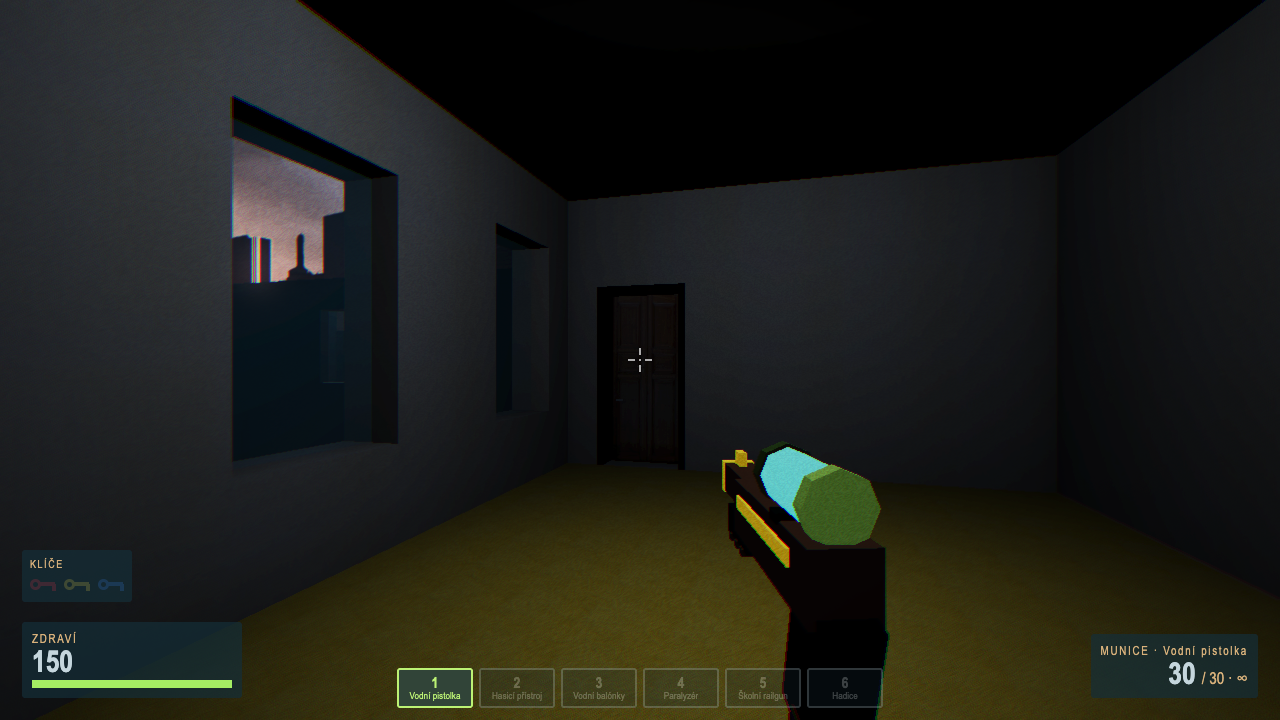
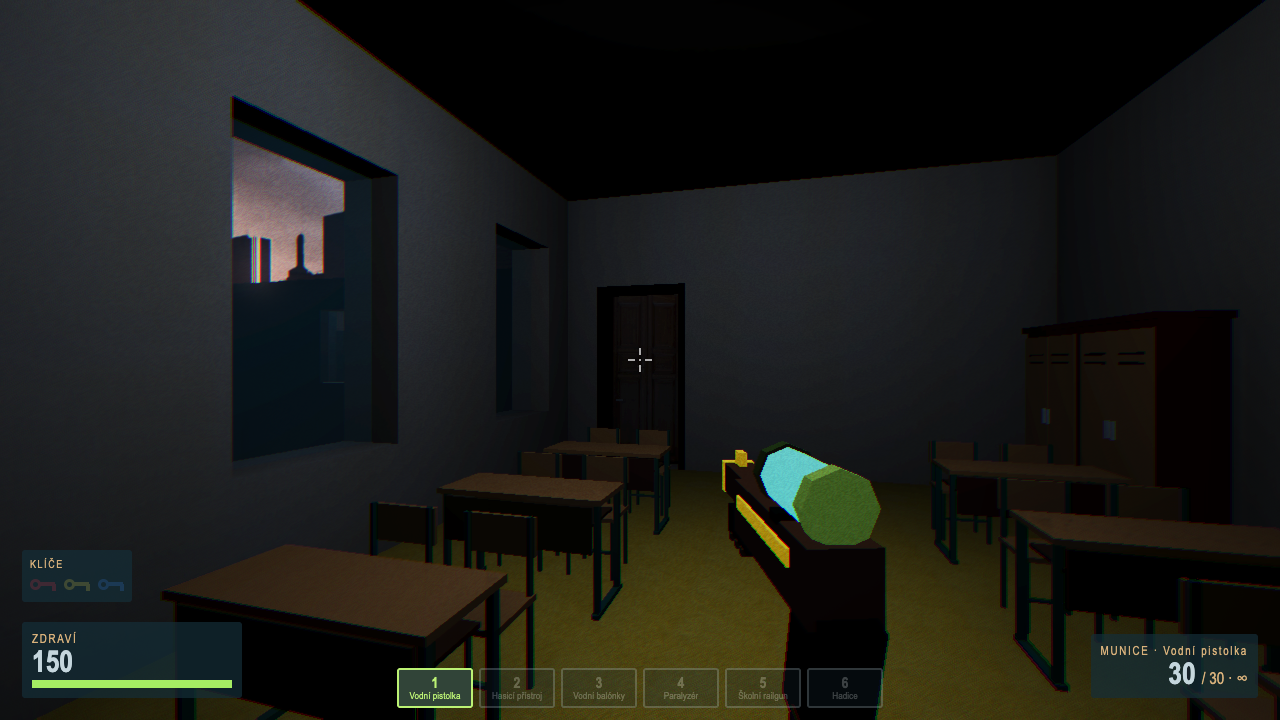
Phase 16 [fix]: prop colliders (PropColliders: static boxes, navmesh input), furniture bump check in playthrough

diff --git a/src/level/LevelGameplay.ts b/src/level/LevelGameplay.ts
@@ -21,6 +21,7 @@ import { LevelStations } from "./LevelStations";
 import { NavMeshService } from "./NavMeshService";
 import { PickupField } from "./PickupField";
 import { ProgressionConfig } from "./ProgressionConfig";
+import { PropColliders } from "./PropColliders";
 import { PropPlacer, type PlacedProps } from "./PropPlacer";
 import { RoomLighting } from "./RoomLighting";
 import { TeacherSystem } from "./TeacherSystem";
@@ -54,8 +55,9 @@ export interface LevelGameplayOptions {
 
 /** The full game's systems on top of the level (`play`, phase 16). */
 export interface GameParts {
-  /** Furniture of `data/props.json` (phase 15), lit by its rooms; no collisions. */
+  /** Furniture of `data/props.json` (phase 15), lit by its rooms, with static colliders (`PropColliders`). */
   props: PlacedProps;
+  colliders: PropColliders;
   quiz: QuizSystem;
   teachers: TeacherSystem;
   stations: WeaponStations;
@@ -77,6 +79,8 @@ export interface FurnitureTestApi {
   meshes: () => number;
   /** Triangles drawn by all props (thin instances counted). */
   triangles: () => number;
+  /** Static collider boxes over the props (one per prop). */
+  colliders: () => number;
 }
 
 declare module "../core/TestHooks" {
@@ -111,7 +115,12 @@ export class LevelGameplay {
   static async create(game: Game, options: LevelGameplayOptions = {}): Promise<LevelGameplay> {
     const physics = await Physics.create(game);
     const level = await LevelBuilder.build(game, physics);
-    const navmesh = await NavMeshService.create(game.scene, level.getNavigableMeshes(), { obstacles: true });
+    const play = options.play === true;
+    // The full game furnishes the rooms (phase 15 props) before the navmesh bakes, so robots walk around the furniture;
+    // the bare level stays empty for geometry tests and `?scene=props`.
+    const props = play ? PropPlacer.place(game.scene, level.layout) : null;
+    const colliders = props === null ? null : PropColliders.build(game.scene, physics, props.props);
+    const navmesh = await NavMeshService.create(game.scene, [...level.getNavigableMeshes(), ...(colliders?.meshes ?? [])], { obstacles: true });
     const spawn = LevelGameplay.spawn(level, options);
     const player = Player.create(game, physics, spawn);
     level.attachPlayer(player);
@@ -130,9 +139,8 @@ export class LevelGameplay {
     hud.setHintSource(() => doors.hint);
     const pickups = PickupField.create(game, player, inventory, lighting);
     pickups.spawnLevel(level.layout);
-    const play = options.play === true;
-    // The full game furnishes the rooms (phase 15 props); the bare level stays empty for geometry tests and `?scene=props`.
-    const props = play ? LevelGameplay.furnish(game, level, lighting) : null;
+    // Props are lit by their room's lamps.
+    for (const [room, meshes] of props?.meshesByRoom ?? []) lighting.attach(meshes, [room]);
     const countDelta = options.countDelta ?? ProgressionConfig.load().countDelta;
     const enemies = LevelGameplay.enemies(game, player, navmesh, level, options.enemies ?? (play ? "all" : null), countDelta);
     if (enemies !== null) {
@@ -140,7 +148,8 @@ export class LevelGameplay {
       pickups.attachDrops(enemies.enemies);
       for (const enemy of enemies.enemies) lighting.track(() => LevelGameplay.robotMeshes(enemy), () => enemy.position);
     }
-    const parts = props !== null ? LevelGameplay.play(game, physics, level, navmesh, player, weapons, inventory, hud, doors, pickups, lighting, enemies, props, options) : null;
+    const furniture = props !== null && colliders !== null ? { props, colliders } : null;
+    const parts = furniture !== null ? LevelGameplay.play(game, physics, level, navmesh, player, weapons, inventory, hud, doors, pickups, lighting, enemies, furniture, options) : null;
     if (parts === null) {
       // The bare level (geometry tests): back to the start at once. The full game goes back to its checkpoint.
       player.health.onDeath.add(() => {
@@ -185,7 +194,7 @@ export class LevelGameplay {
     pickups: PickupField,
     lighting: RoomLighting,
     enemies: EnemyManager | null,
-    props: PlacedProps,
+    furniture: { props: PlacedProps; colliders: PropColliders },
     options: LevelGameplayOptions,
   ): GameParts {
     const data = ProgressionConfig.load();
@@ -208,15 +217,9 @@ export class LevelGameplay {
       { intro: options.intro === true, resume: options.resume === true },
       options.difficultyName ?? null,
     );
-    return { props, quiz, teachers, stations, progress };
+    return { ...furniture, quiz, teachers, stations, progress };
   }
 
-  /** Props of `data/props.json` in their rooms, each room's props lit by that room's lamps. */
-  private static furnish(game: Game, level: Level, lighting: RoomLighting): PlacedProps {
-    const props = PropPlacer.place(game.scene, level.layout);
-    for (const [room, meshes] of props.meshesByRoom) lighting.attach(meshes, [room]);
-    return props;
-  }
 
   private static spawn(level: Level, options: LevelGameplayOptions): PlayerSpawn {
     const spawn = options.room == null ? level.playerSpawn() : level.roomSpawn(options.room);
@@ -259,11 +262,13 @@ export class LevelGameplay {
       lightsOn: (prefix) => level.lights.filter((light) => light.includedOnlyMeshes.some((mesh) => mesh.name.startsWith(prefix))).length,
     });
     const props = this.game?.props;
-    if (props !== undefined) {
+    const colliders = this.game?.colliders;
+    if (props !== undefined && colliders !== undefined) {
       TestHooks.register("furniture", {
         instances: () => props.props.instances.map((i) => ({ room: i.room, blueprint: i.blueprint, footprint: { ...i.footprint } })),
         meshes: () => [...props.meshesByRoom.values()].reduce((sum, list) => sum + list.length, 0),
         triangles: () => props.triangles(),
+        colliders: () => colliders.meshes.length,
       });
     }
   }

diff --git a/tests/e2e/playthrough.spec.ts b/tests/e2e/playthrough.spec.ts
@@ -368,6 +368,7 @@ test.describe.serial("playthrough of the level on the main page", () => {
         furniture: g.furniture!.instances(),
         furnitureMeshes: g.furniture!.meshes(),
         furnitureTriangles: g.furniture!.triangles(),
+        furnitureColliders: g.furniture!.colliders(),
         litProps: g.lighting!.lightsOn("prop:"),
       };
     });
@@ -407,6 +408,7 @@ test.describe.serial("playthrough of the level on the main page", () => {
     expect(state.furnitureMeshes).toBeGreaterThan(0);
     expect(state.furnitureTriangles).toBeGreaterThan(0);
     expect(state.litProps).toBeGreaterThan(0);
+    expect(state.furnitureColliders).toBe(state.furniture.length);
     const covers = (f: { x0: number; z0: number; x1: number; z1: number }, x: number, z: number, margin: number) =>
       x > f.x0 - margin && x < f.x1 + margin && z > f.z0 - margin && z < f.z1 + margin;
     for (const prop of state.furniture) {
@@ -420,6 +422,25 @@ test.describe.serial("playthrough of the level on the main page", () => {
 
     await page.evaluate(() => window.__game!.progress!.intro.dismiss());
     expect(await page.evaluate(() => window.__game!.progress!.intro.visible)).toBe(false);
+
+    // Furniture collides: walking east from the aisle of učebna 30 into the window-side desk column stops at the desks.
+    const desk = state.furniture.find((p) => p.room === level.spawns.player.room && p.blueprint === "schoolDesk" && p.footprint.x0 > level.spawns.player.x)!;
+    const bump = await page.evaluate(
+      ({ x, z, deskX, floorY, eye }) => {
+        const g = window.__game!;
+        const start = g.player!.position;
+        g.player!.teleport(x, floorY + 0.05, -z);
+        g.step(100);
+        g.player!.lookAt(deskX + 3, floorY + eye, -z);
+        g.input!.simulate("KeyW", 1500);
+        const reached = g.player!.position.x;
+        g.player!.teleport(start.x, start.y + 0.05, start.z);
+        g.step(100);
+        return reached;
+      },
+      { x: level.spawns.player.x, z: (desk.footprint.z0 + desk.footprint.z1) / 2, deskX: desk.footprint.x0, floorY: route[0]!.y, eye: player.body.eyeHeight },
+    );
+    expect(bump).toBeLessThan(desk.footprint.x0);
   });
 
   test("floor 4: Hudebka, Zeměpis (one wrong answer → extinguisher), balloons on the corridor, Matematika → red key + checkpoint", async () => {

diff --git a/src/level/PropColliders.ts b/src/level/PropColliders.ts
@@ -1,0 +1,40 @@
+import { CreateBox } from "@babylonjs/core/Meshes/Builders/boxBuilder";
+import type { Mesh } from "@babylonjs/core/Meshes/mesh";
+import type { Scene } from "@babylonjs/core/scene";
+import type { Physics } from "../core/Physics";
+import type { PropLayout } from "./PropLayout";
+
+const MESH_PREFIX = "propcollider";
+const HALF = 0.5;
+
+/**
+ * Invisible static boxes over the props of `data/props.json` (phase 16): one per prop, its plan footprint from the
+ * room's floor up to the model's height. The player and the robots' bodies bump into them, and the level's navmesh
+ * takes them as input, so robots walk around desks instead of through them. Shots stop at them like at crates.
+ */
+export class PropColliders {
+  private constructor(readonly meshes: readonly Mesh[]) {}
+
+  static build(scene: Scene, physics: Physics, props: PropLayout): PropColliders {
+    const meshes = props.instances.map((instance, i) => {
+      const f = instance.footprint;
+      const box = CreateBox(
+        `${MESH_PREFIX}:${instance.room}:${instance.blueprint}:${i}`,
+        { width: f.x1 - f.x0, height: instance.height, depth: f.z1 - f.z0 },
+        scene,
+      );
+      // Plan z runs down the floorplan, world z = −plan z.
+      box.position.set((f.x0 + f.x1) * HALF, instance.position.y + instance.height * HALF, -(f.z0 + f.z1) * HALF);
+      box.isVisible = false;
+      box.isPickable = false;
+      box.computeWorldMatrix(true);
+      physics.addStatic(box);
+      return box;
+    });
+    return new PropColliders(meshes);
+  }
+
+  dispose(): void {
+    for (const mesh of this.meshes) mesh.dispose();
+  }
+}
